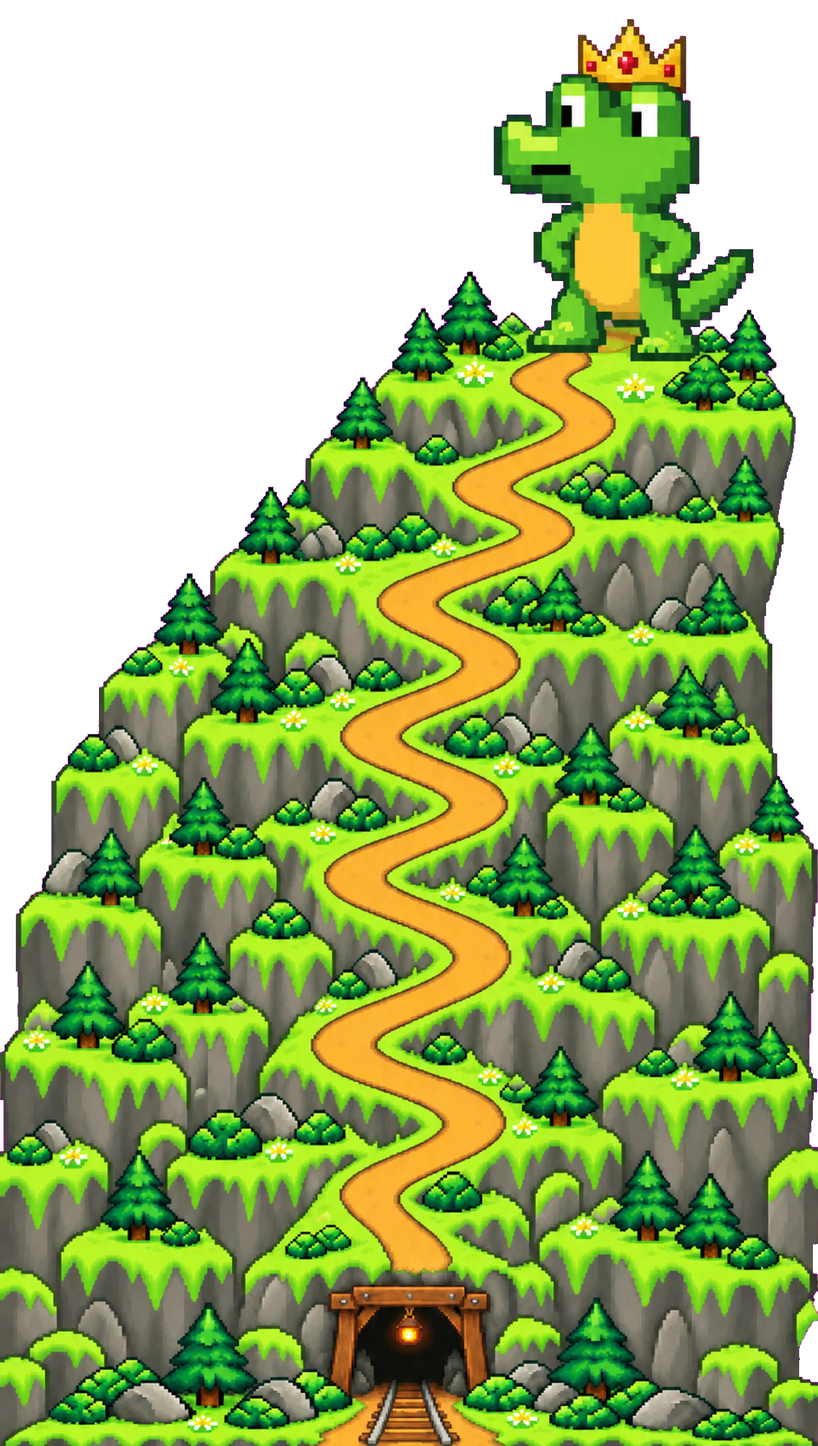
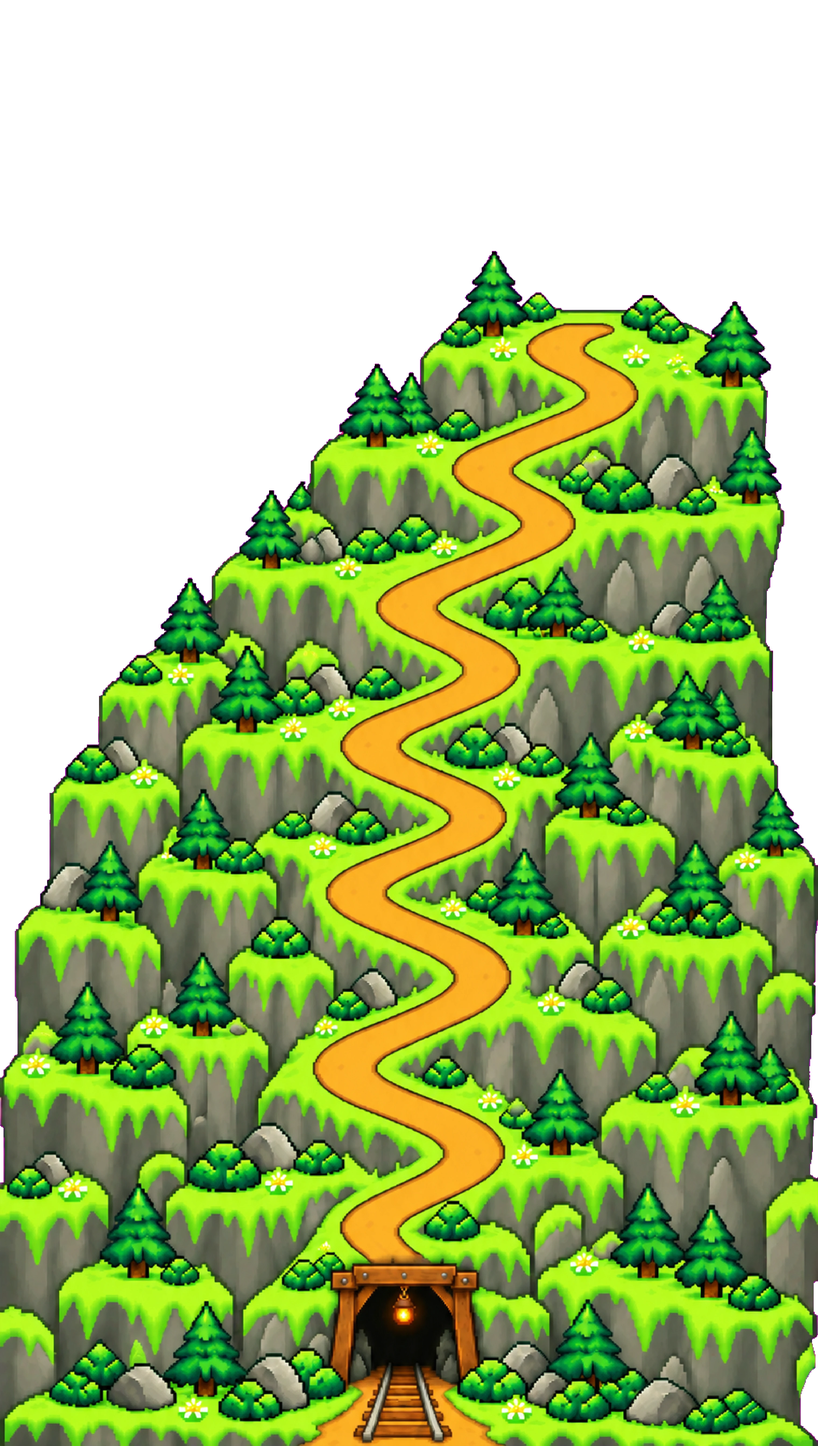
[verified] fix: use full transparent summit character

diff --git a/components/Mountain.tsx b/components/Mountain.tsx
@@ -2,15 +2,16 @@
 
 import { useLayoutEffect, useRef, useState } from "react";
 
-// One continuous painting (croc on the peak → switchback trail → mine entrance)
-// sits behind the hero AND the challengers section, so there is no seam.
-// It is sized so that:
-//   - the croc's feet land on [data-croc-anchor] inside the hero, and
-//   - the painted mine entrance lands on the bottom of this wrapper.
+// One continuous mountain painting (summit → switchback trail → mine entrance)
+// sits behind the hero AND the challengers section, so there is no seam. The
+// full crowned crocodile and its foreground summit are a separate transparent
+// layer so the complete character can stay visible at desktop hero scale.
+// It is sized so that the upper summit lines up with the hero anchor and the
+// painted mine entrance lands on the bottom of this wrapper.
 // The wrapper is also given a min-height so the painting is always at least as
 // wide as the viewport (its lower part must fill the full width).
 const RATIO = 1520 / 2688; // width / height of the art
-const FEET = 0.0688; // croc feet, as a fraction of the art height
+const SUMMIT_ANCHOR = 0.235; // upper summit reference row in the empty mountain art
 // The art is drawn at least this much wider than the viewport, so the croc and
 // the trail read at a good size (and the lower mountain always fills the width).
 const MIN_SCALE = 1.0;
@@ -36,14 +37,14 @@ export function Mountain({ children }: { children: React.ReactNode }) {
       const w = el.getBoundingClientRect();
       const anchorY = anchor.getBoundingClientRect().top - w.top;
       // Content must end above the entrance: solve H = C + ENTRANCE * artH,
-      // with artH = (H - anchorY) / (1 - FEET).
+      // with artH = (H - anchorY) / (1 - SUMMIT_ANCHOR).
       const end = el.querySelector<HTMLElement>("[data-content-end]");
       const C = end ? end.getBoundingClientRect().bottom - w.top : 0;
-      const k = ENTRANCE / (1 - FEET);
+      const k = ENTRANCE / (1 - SUMMIT_ANCHOR);
       const fit = (C - k * anchorY) / (1 - k);
-      const minH = Math.max(anchorY + ((1 - FEET) * w.width * MIN_SCALE) / RATIO, fit);
+      const minH = Math.max(anchorY + ((1 - SUMMIT_ANCHOR) * w.width * MIN_SCALE) / RATIO, fit);
       const H = minH;
-      const height = (H - anchorY) / (1 - FEET);
+      const height = (H - anchorY) / (1 - SUMMIT_ANCHOR);
       const top = H - height;
       // Backdrop: its snowy range peeks out beside the peak, and its opaque
       // forest must reach below the row where the mountain fills the width.
@@ -83,15 +84,24 @@ export function Mountain({ children }: { children: React.ReactNode }) {
       />
       {/* eslint-disable-next-line @next/next/no-img-element */}
       <img
-        src="/assets/mountain-full-1520.webp?v=right-summit-1"
-        srcSet="/assets/mountain-full-1520.webp?v=right-summit-1 1520w, /assets/mountain-full-2280.webp?v=right-summit-1 2280w, /assets/mountain-full-3040.webp?v=right-summit-1 3040w"
+        src="/assets/mountain-full-1520.webp?v=full-dino-2"
+        srcSet="/assets/mountain-full-1520.webp?v=full-dino-2 1520w, /assets/mountain-full-2280.webp?v=full-dino-2 2280w, /assets/mountain-full-3040.webp?v=full-dino-2 3040w"
         sizes={box ? `${Math.round(box.height * RATIO)}px` : "100vw"}
-        alt="The crowned GMGN crocodile on the peak of a grassy pixel-art mountain; a trail winds all the way down to a mine entrance"
+        alt=""
         width={1520}
         height={2688}
         fetchPriority="high"
         className="pointer-events-none absolute left-1/2 z-[1] max-w-none -translate-x-1/2 select-none"
         style={box ? { top: box.top, height: box.height, width: Math.round(box.height * RATIO) } : { visibility: "hidden" }}
+      />
+      {/* eslint-disable-next-line @next/next/no-img-element */}
+      <img
+        src="/assets/croc-summit-hero.webp?v=transparent-full-1"
+        alt="The crowned crocodile standing on a grassy pixel-art mountain summit"
+        width={1179}
+        height={1334}
+        fetchPriority="high"
+        className="croc-summit-hero pixelated pointer-events-none absolute top-[150px] right-[2%] z-[2] h-auto w-[min(42vw,620px)] select-none"
       />
       {children}
     </div>

diff --git a/components/Hero.tsx b/components/Hero.tsx
@@ -138,10 +138,10 @@ export function Hero({ state, now, connection }: { state: GameState; now: number
         </div>
       </div>
 
-      {/* Where the croc stands: the Mountain wrapper lines the painting's croc
-          up with this point (mobile: below the CTAs; desktop: between the
-          clock and the throne). */}
-      <div className="relative h-[300px] shrink-0 lg:absolute lg:inset-x-0 lg:top-[560px] lg:h-0" aria-hidden>
+      {/* Mountain summit alignment point. The full crocodile/summit foreground
+          is a separate transparent layer, so it is never cropped from the
+          continuous mountain painting. */}
+      <div className="relative h-[300px] shrink-0 lg:absolute lg:inset-x-0 lg:top-[820px] lg:h-0" aria-hidden>
         <div data-croc-anchor className="absolute bottom-4 left-0 lg:bottom-0" />
       </div>
     </section>

diff --git a/app/globals.css b/app/globals.css
@@ -140,6 +140,12 @@ body {
   image-rendering: pixelated;
 }
 
+@media (max-width: 1023px) {
+  .croc-summit-hero {
+    display: none;
+  }
+}
+
 /* ── Buttons ── */
 .btn-px {
   --btn-bg: var(--gold);
